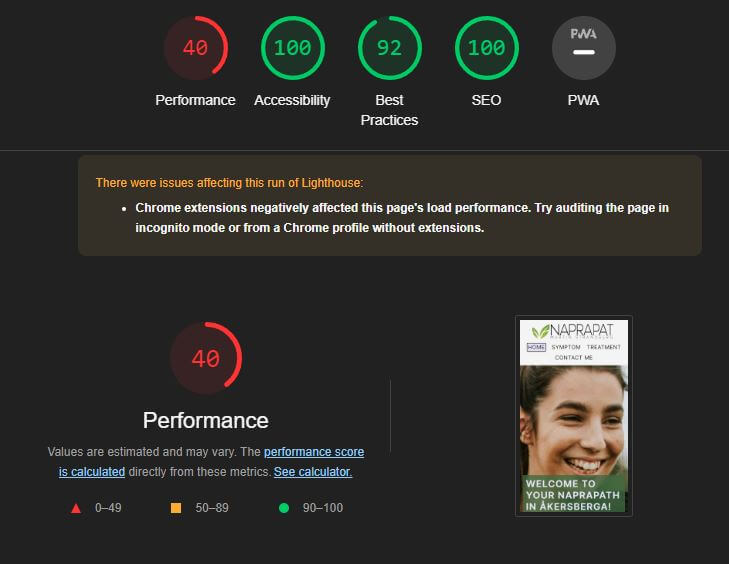
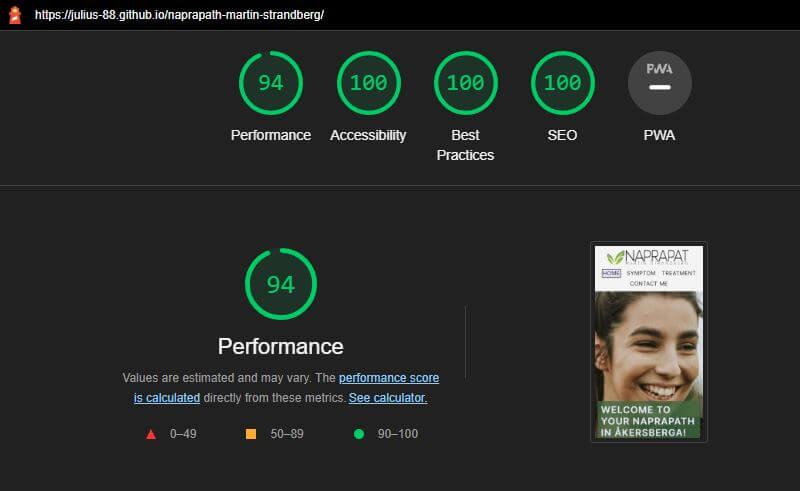
update readme.md

Changed region(s): [[0.0, 0.0, 1.0, 0.4277], [0.0604, 0.4888, 0.5734, 0.9165], [0.6941, 0.4888, 0.9053, 0.9165]]

diff --git a/README.md b/README.md
@@ -120,13 +120,11 @@
 ![Contact Form](./documentation/readme-contact-form.jpg)
 ![Respons Page](./documentation/readme-response-page.jpg)
 
-## Additional Features & Ideas
+## Additional Features & Ideas to Implement
 
 - I was considering to add a book button at the end of symptom and treatment page to allow the viewer to easier book a session. 
 
 - I was considering to change the information section of the symptom and treatment page to be in the shape of cards and stand side by side instead of underneath each other. I think this will provide a better user experience. 
-
-- After having checked in Lighthouse it would seem the pictures I have used are too big and slows down the page. I would like to fix these.
 
 - Add the owners social media accounts in the footer section.
 
@@ -136,10 +134,6 @@
     - For mobile version flex-direction column was used to make it easier to read.
 - I have confirmed that it works on Google Chrome, Firefox and android phone.
 - The form has been tested and requires entries in every field.
-
-- Upon checking with Lighthouse it would seem the images need to be adjusted. The images taken from the owners website are of low resolution.
-
-- Images taken from [Pexel](https://www.pexels.com/sv-se/) seem to be too big. Have to find a way of fixing it without the picture becoming too pixelated. 
 
 ### Validator Testing
 
@@ -156,24 +150,43 @@
     </a>
 </p>
 
-- Accessibility was tested through Lighthouse in devtools. The only problem seems to be the images used are too big or too small. They need to be adjusted. 
+- Accessibility was tested through Lighthouse in devtools. 
     - Validation for mobile ![Lighthouse for Mobile version](./documentation/lighthouse-mobile-validation.JPG)
     - Validation for desktop ![Lighthouse for Desktop version](./documentation/lighthouse-desktop-validation.JPG)
 
 ## Unfixed Bugs
 
+- No unfixed bugs
 
 
 ## Deployment
 
-- Github was used to deploy the site. [Naprapath Martin Strandberg](https://julius-88.github.io/naprapath-martin-strandberg/)
+- Github was used to deploy the site [Naprapath Martin Strandberg](https://julius-88.github.io/naprapath-martin-strandberg/)
+
+1. In the GitHub repository go to *Settings* tab.
+2. On the left side under *code and automation* click on *pages*.
+3. In the middle of the page under *GitHub Pages* there is a section called *Branch*.
+Under the *Branch* title there is a button called *None*.
+4. Click on the *None* button and choose *main* and then click on the button next to it called *Save*
+
+The website will now be deployed in a couple of minutes. 
 
 ## Credit
 
+### Content
 - The original site that the owner owns is this: [Martin Strandberg](http://www.naprapatmartinstrandberg.se/)
-    - I used some of his text as a base and altered them. I used what information he had given about his treatments and filled out the rest using Wikipedia. 
+    - Since the idea was to create a new website for him, I used some of his text as a base and altered them. I used what information he had given about his treatments and filled out the rest using Wikipedia. 
 
-- The animation effect on the hero image was taken from Love Running Project that was provided by Code Institute.
+- I used a code along project we did with Code Institute as a base reference point to structure the code.
+    - It is called [Love Running](https://github.com/Code-Institute-Solutions/love-running-2.0-sourcecode)
+    - The animation effect on the hero image was taken from this project.
+
+- I used a real site for inspiration for the design of the website. [naprapatklinik018](https://naprapatklinik018.se/)
+    - I tried to imagine what the owner of the site 
+
+
+I have used a combination of [MDN Web Docs](https://developer.mozilla.org/en-US/), [W3schools](https://www.w3schools.com/) and [Code Institute's](https://codeinstitute.net/se/) learning program to learn about various code and how they should be implemented.
+
+### Media
 
 - All pictures was taken from the owners facebook page and [Pexels](https://www.pexels.com/sv-se/) and modified with [I Love IMG](https://www.iloveimg.com/)
-
